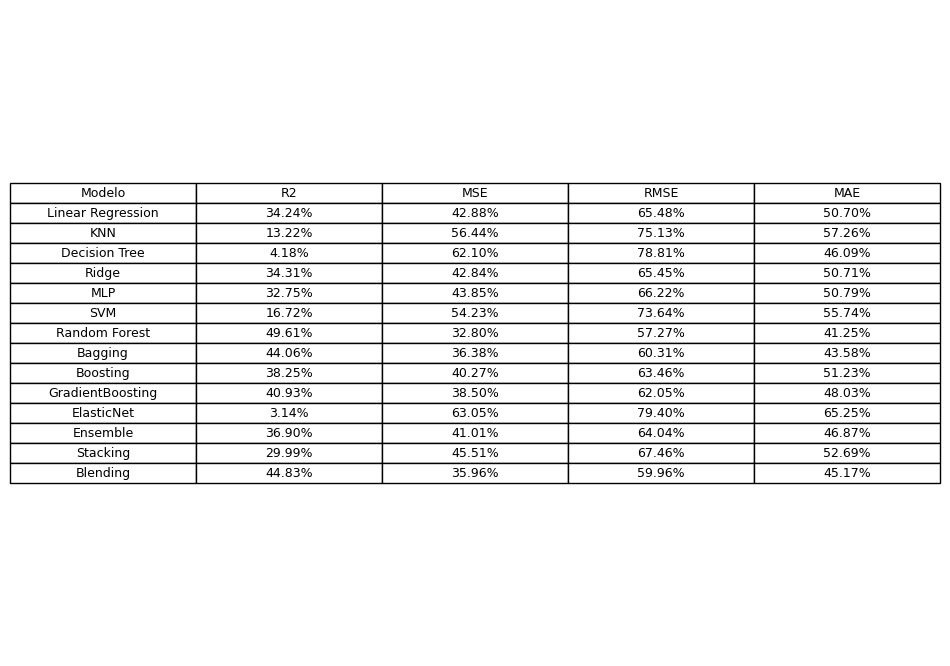
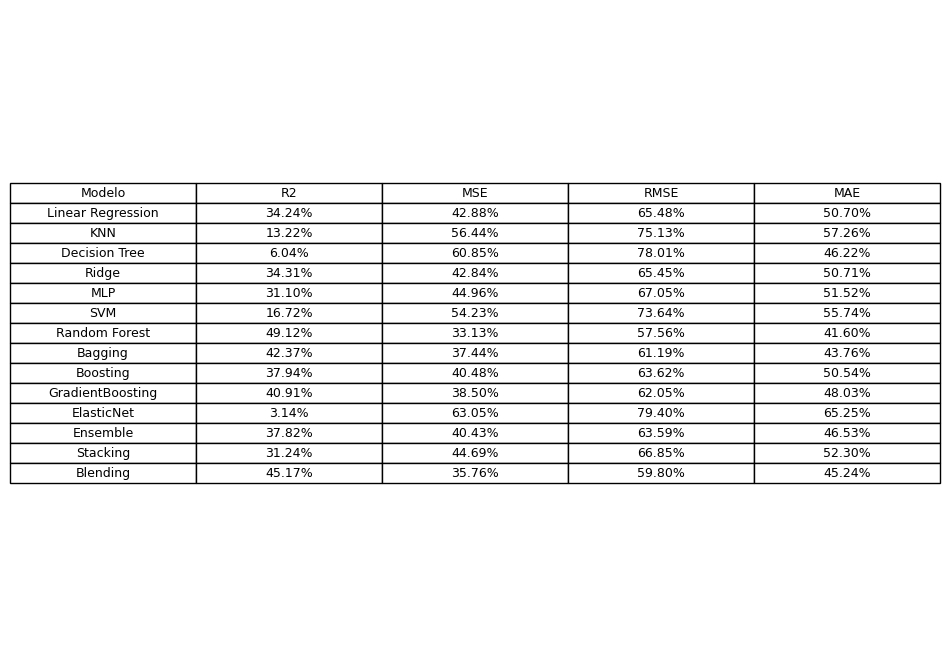
Colocando e ajustando o blending

diff --git a/main.py b/main.py
@@ -22,7 +22,7 @@ from sklearn.ensemble import (
 from sklearn.discriminant_analysis import QuadraticDiscriminantAnalysis
 from sklearn.linear_model import ElasticNet
 
-
+from Blending import *
 
 # ============================================================
 # FUNÇÕES AUXILIARES
@@ -77,7 +77,7 @@ def run_classification(X, y, cv=False):
         "KNN": KNeighborsClassifier(),
         "Decision Tree": DecisionTreeClassifier(),
         "Naive Bayes": GaussianNB(),
-        "Logistic Regression": LogisticRegression(max_iter=500),
+        "Logistic Regression": LogisticRegression(max_iter=1000),
         "MLP": MLPClassifier(max_iter=1000),
         "SVM": SVC(),
         "Random Forest": RandomForestClassifier(),
@@ -158,10 +158,14 @@ def run_regression(X, y, cv=False):
     }
 
     # Ensemble simples (média de regressões)
-    models["Ensemble"] = VotingRegressor([
-        ('lr', LinearRegression()),
-        ('dt', DecisionTreeRegressor())
-    ])
+    models["Blending"] = BlendingClassifier(
+        base_models=[
+            ('rf', RandomForestClassifier()),
+            ('mlp', MLPClassifier(max_iter=1000))
+        ],
+        meta_model=LogisticRegression()
+    )
+    
 
     # Stacking
     models["Stacking"] = StackingRegressor(
@@ -172,7 +176,7 @@ def run_regression(X, y, cv=False):
     # Blending (simulado com Voting)
     models["Blending"] = VotingRegressor([
         ('rf', RandomForestRegressor()),
-        ('mlp', MLPRegressor(max_iter=500))
+        ('mlp', MLPRegressor(max_iter=1000))
     ])
 
     if cv:
@@ -202,7 +206,7 @@ def run_regression(X, y, cv=False):
 
 if __name__ == "__main__":
     # ---------- CLASSIFICAÇÃO ----------
-    data = pd.read_csv("Datasets/student-mat.csv", sep=";")
+    data = pd.read_csv("Datasets/student-por.csv", sep=";")
     data["pass"] = (data["G3"] >= 10).astype(int)
     X = data.drop(columns=["pass","G3"])
     X = pd.get_dummies(X, drop_first=True)

diff --git a/Blending.py b/Blending.py
@@ -1,0 +1,44 @@
+import numpy as np
+from sklearn.linear_model import LogisticRegression
+
+class BlendingClassifier:
+    def __init__(self, base_models, meta_model=None):
+        self.base_models = base_models
+        self.meta_model = meta_model if meta_model else LogisticRegression()
+    
+    def fit(self, X, y):
+        # Split simples (holdout) para gerar meta-features
+        from sklearn.model_selection import train_test_split
+        X_train, X_blend, y_train, y_blend = train_test_split(X, y, test_size=0.3, random_state=42)
+
+        # Treinar os modelos de base
+        self.fitted_base = []
+        blend_features = []
+        for name, model in self.base_models:
+            m = model.fit(X_train, y_train)
+            self.fitted_base.append((name, m))
+            preds = m.predict_proba(X_blend)
+            blend_features.append(preds)
+        
+        # Criar features para meta-modelo
+        blend_features = np.hstack(blend_features)
+
+        # Treinar meta-modelo
+        self.meta_model.fit(blend_features, y_blend)
+        return self
+    
+    def predict(self, X):
+        blend_features = []
+        for _, m in self.fitted_base:
+            preds = m.predict_proba(X)
+            blend_features.append(preds)
+        blend_features = np.hstack(blend_features)
+        return self.meta_model.predict(blend_features)
+    
+    def predict_proba(self, X):
+        blend_features = []
+        for _, m in self.fitted_base:
+            preds = m.predict_proba(X)
+            blend_features.append(preds)
+        blend_features = np.hstack(blend_features)
+        return self.meta_model.predict_proba(blend_features)
